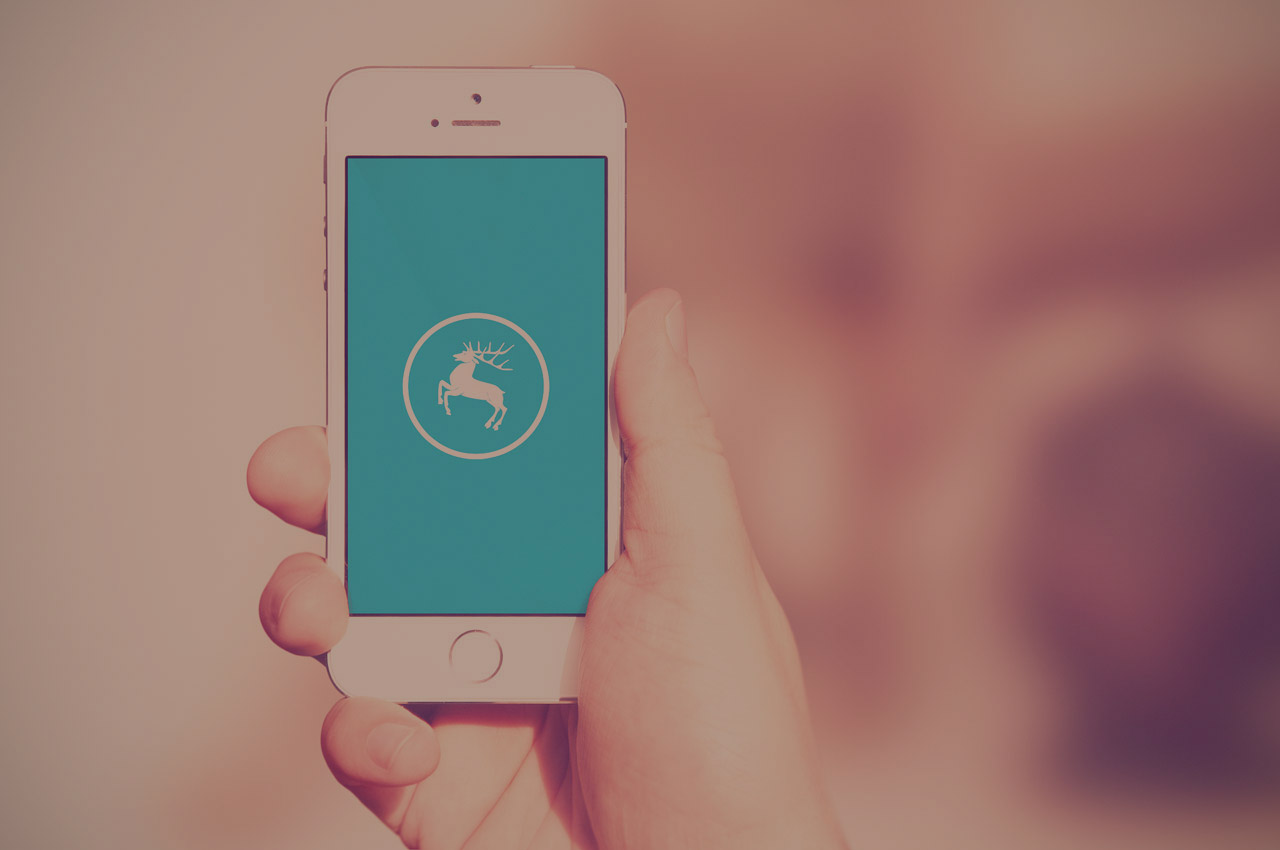
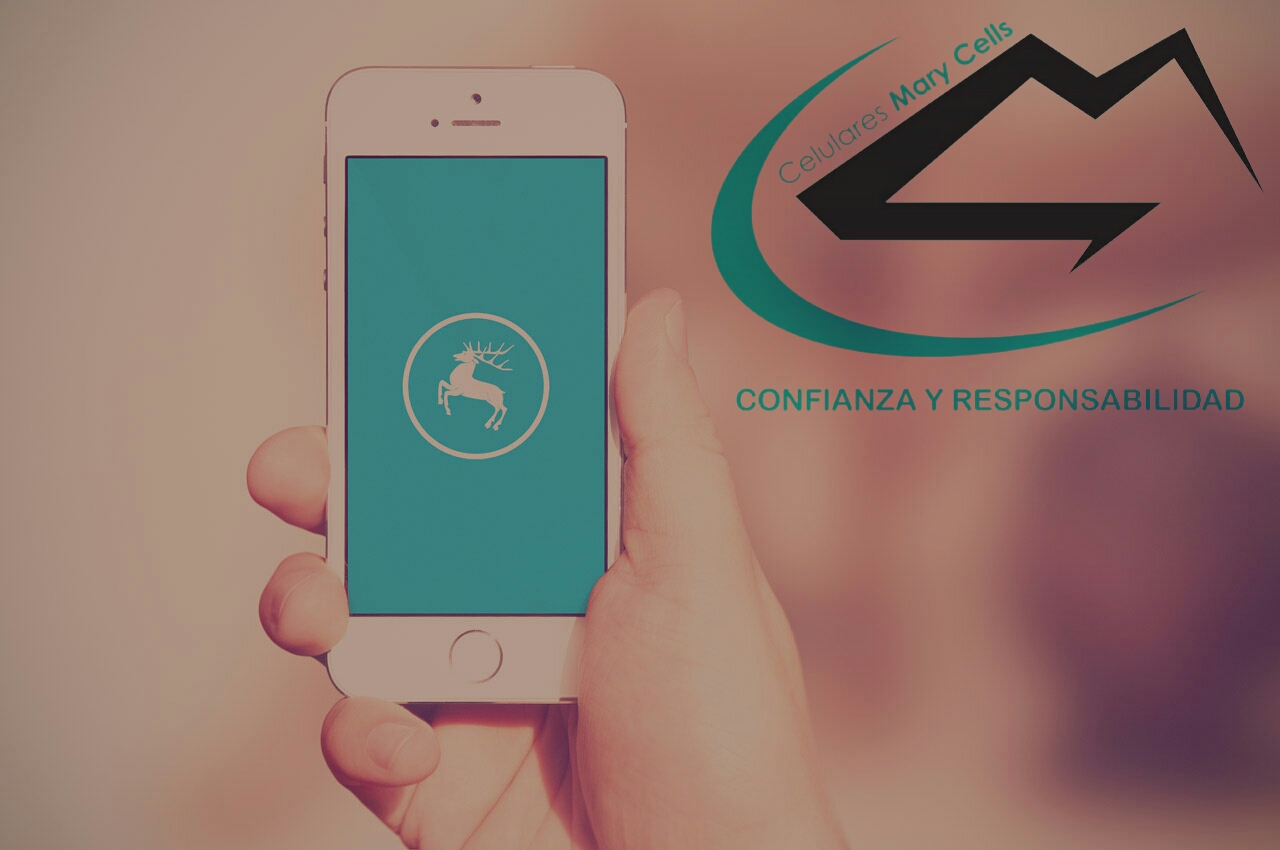
Cambio de Imagenes y Texto

diff --git a/index.html b/index.html
@@ -24,7 +24,7 @@
 
 		<!-- Header -->
 			<header id="header">
-				<h1>Maricell</h1>
+				<h1>Bienvenidos a Mary Cells Tienda Web</h1>
 				<nav>
 					<ul>
 						<li><a href="#intro">Inicio</a></li>
@@ -42,10 +42,11 @@
 					<!-- Top Navigation -->
 
 					<div id="boxgallery" class="boxgallery" data-effect="effect-1">
-						<div class="panel"><img src="img/5.jpeg" alt="Image 1"/></div>
-						<div class="panel"><img src="img/6.jpg" alt="Image 2"/></div>
+						<div class="panel"><img src="img/5.jpeg" alt="Image 5"/></div>
 						<div class="panel"><img src="img/3.jpg" alt="Image 3"/></div>
-						<div class="panel"><img src="img/4.jpg" alt="Image 4"/></div>
+						<div class="panel"><img src="img/6.jpg" alt="Image 6"/></div>
+						<div class="panel"><img src="img/7.jpg" alt="Image 7"/></div>
+						<div class="panel"><img src="img/8.jpg" alt="Image 8"/></div>
 					</div>
 
 				</div><!-- /container -->

diff --git a/css/component.css b/css/component.css
@@ -1,3 +1,12 @@
+h1 {
+    color: #0B3861;
+    font-weight: 600;
+    margin-bottom: 10px;
+    font-family: sans-serif;
+    font-size: 100%;
+    font-style: normal;
+  }
+
 html, body, .container {
 	height: 100%;
 }
